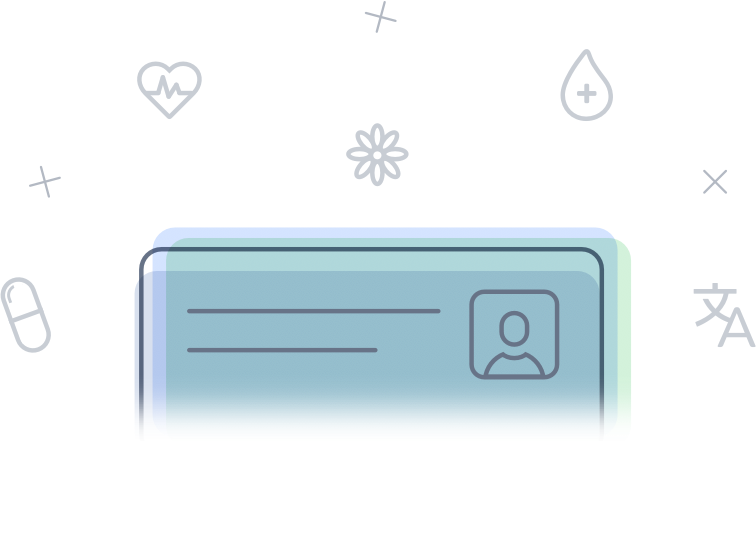
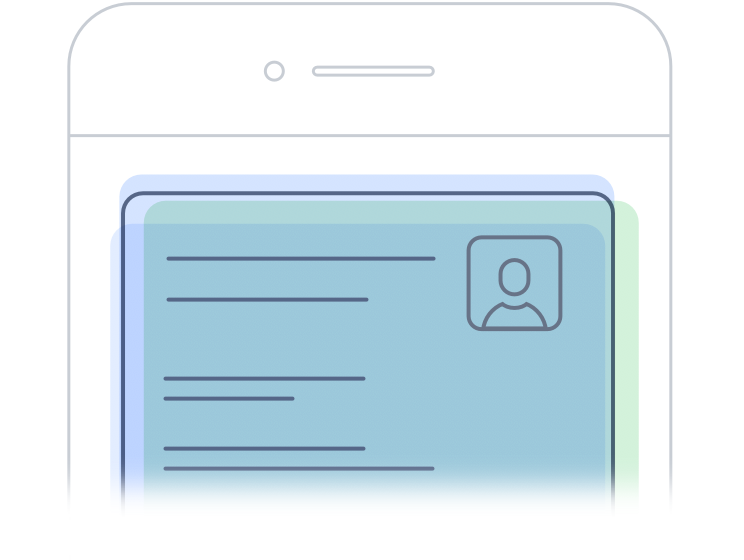
Updated content and images

diff --git a/index.html b/index.html
@@ -34,8 +34,8 @@
 			<div class="nav">
 				<ul>
 					<li><a href="index.html">Home</a></li>
-					<li><a href="blog.html">Blog</a></li>
-					<li><a href="contact.html">Contact</a></li>
+					<li><a href="https://medium.com/iris-app">Blog</a></li>
+					<li><a href="mailto:hello@getiris.co">Contact</a></li>
 				</ul>
 			</div>
 			<div class="copy">
@@ -52,7 +52,7 @@
 	  		<h3>Ensuring the most important people are informed during the critical moments when you’re unable to help yourself.</h3>
 	  		<div class="works-container">
 	  			<div class="step">
-	  				<img style="width: 200px;" src="images/informs.png" alt="" />
+	  				<img style="width: 200px;" src="images/hospital-detection.png" alt="" />
 	  				<h5>Hospital Detection</h5>
 	  				<p>Once Iris notices you're at a hospital, you're sent a push-notification to verify whether or not you're okay or need Iris's help.</p>
 	  			</div>
@@ -62,7 +62,7 @@
 	  				<p>Not okay? After a few minutes, your emergency contact(s) are informed and provided the info needed to reach you.</p>
 	  			</div>
 	  			<div class="step">
-	  				<img style="width: 200px;" src="images/informs.png" alt="" />
+	  				<img style="width: 200px;" src="images/health-card.png" alt="" />
 	  				<h5>Your Digital Health Card</h5>
 	  				<p>Iris surfaces it on your lockscreen after confirming you're not okay, making it quickly and safely accessible to medical professionals. </p>
 	  			</div>
@@ -155,7 +155,7 @@
 						<ul>
 							<li>Product</li>
 							<li><a href="http://">Download for iOS</a></li>
-							<li><a href="mailto:">Request for Android</a></li>
+							<li><a href="mailto:hello@getiris.co">Request for Android</a></li>
 						</ul>
 					</td>
 					<td>
@@ -169,8 +169,8 @@
 						<ul>
 							<li>Company</li>
 							<li><a href="about-us.html">About Us</a></li>
-							<li><a href="blog.html">Blog</a></li>
-							<li><a href="press.html">Press</a></li>
+							<li><a href="https://medium.com/iris-app">Blog</a></li>
+							<li><a href="mailto:hello@getiris.co">Press</a></li>
 						</ul>
 					</td>
 					<td>
